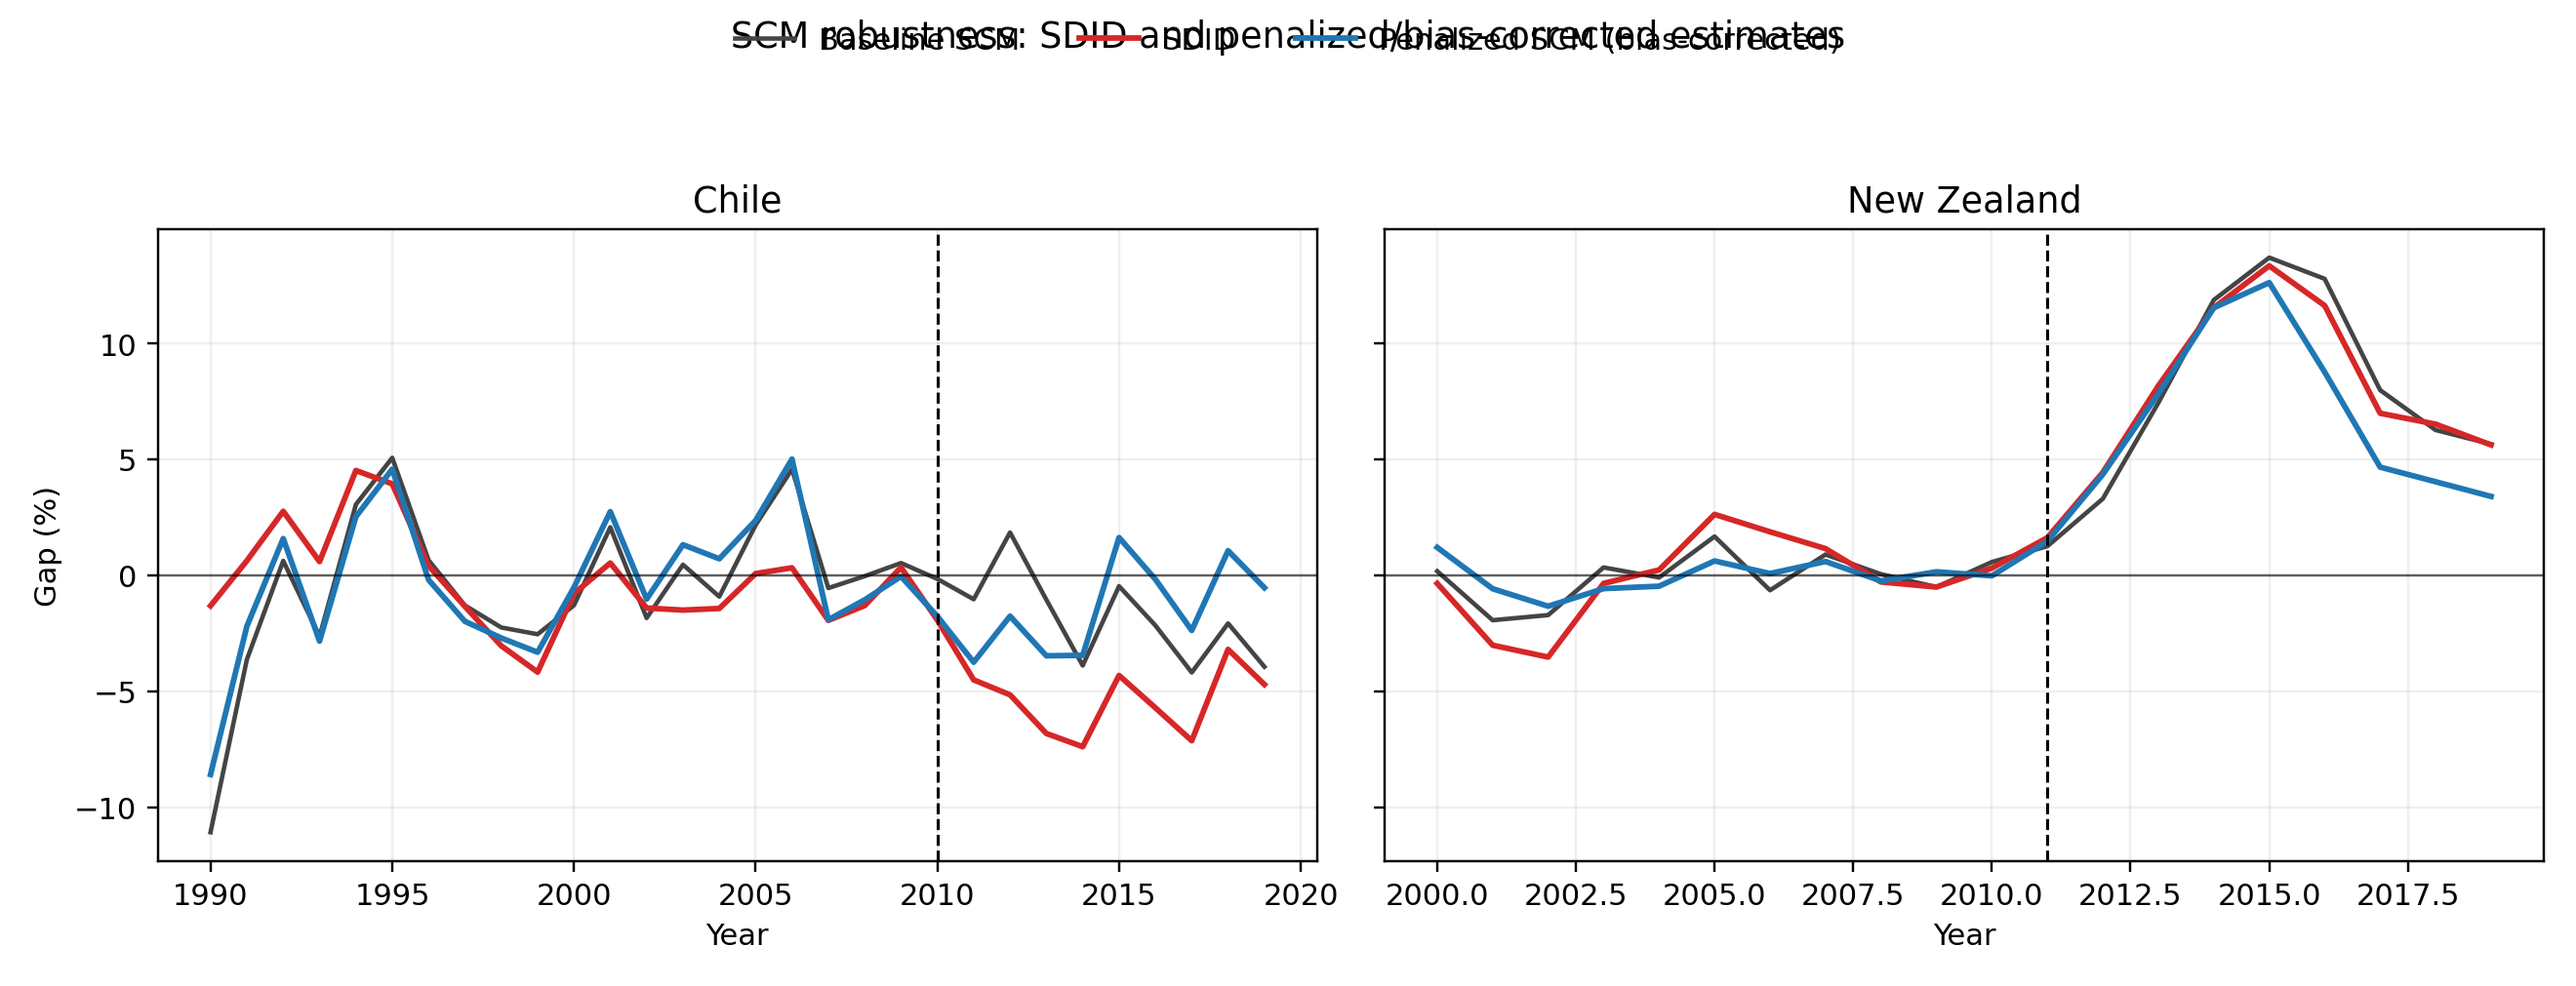
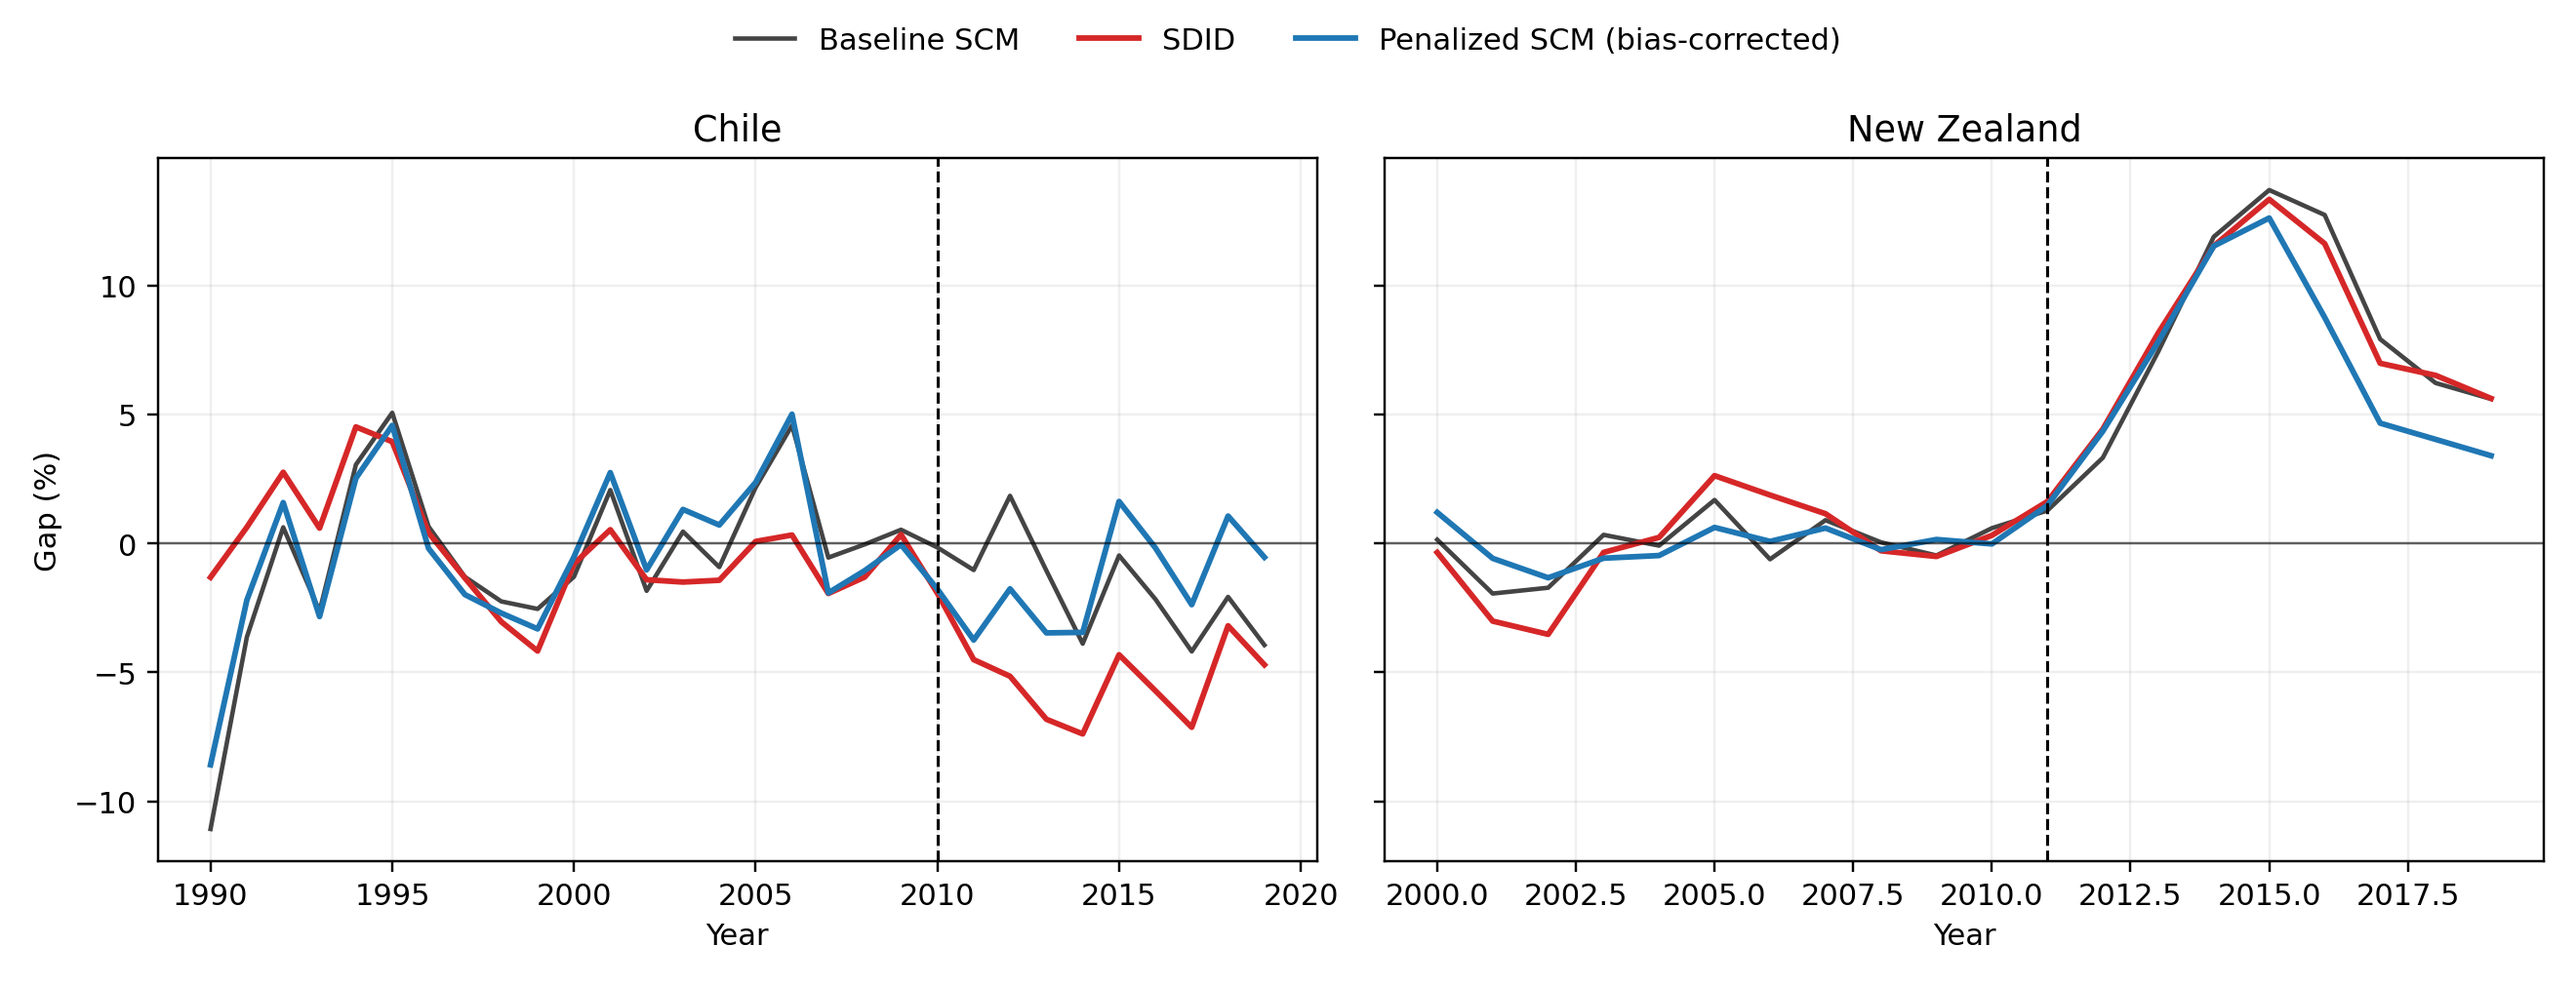
Update SDID and SCM data for Chile and New Zealand, correcting values in CSV files and adjusting diagnostics. Modify figure title in analysis script for clarity. Update summary statistics and penalized lambda grid for consistency.

diff --git a/src/sdid_bias_corrected_analysis.py b/src/sdid_bias_corrected_analysis.py
@@ -470,7 +470,6 @@ def _plot_gap_comparison(gap_df: pd.DataFrame, output_path: str) -> None:
     axes[0].set_ylabel("Gap (%)")
     handles, labels = axes[0].get_legend_handles_labels()
     fig.legend(handles, labels, loc="upper center", ncol=3, frameon=False)
-    fig.suptitle("SCM robustness: SDID and penalized/bias-corrected estimates")
     fig.tight_layout(rect=(0, 0, 1, 0.92))
     fig.savefig(output_path, dpi=220)
     plt.close(fig)
